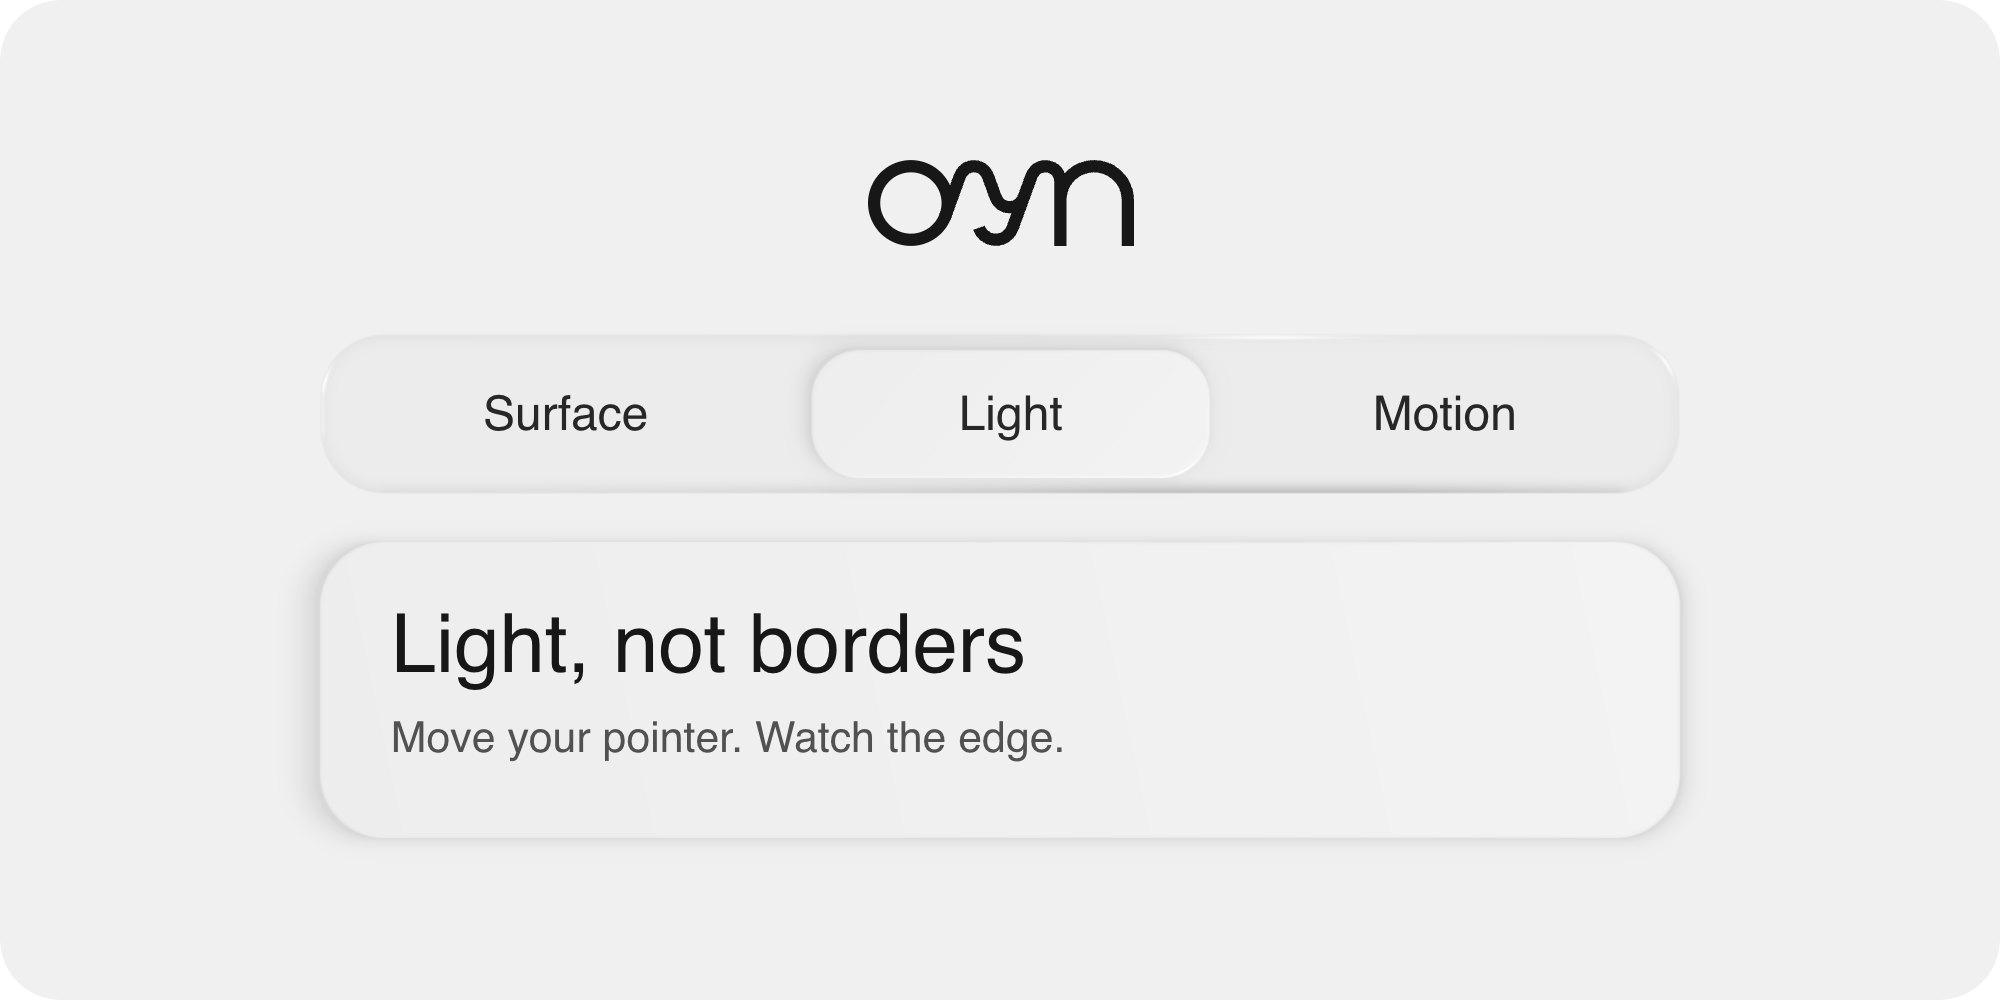
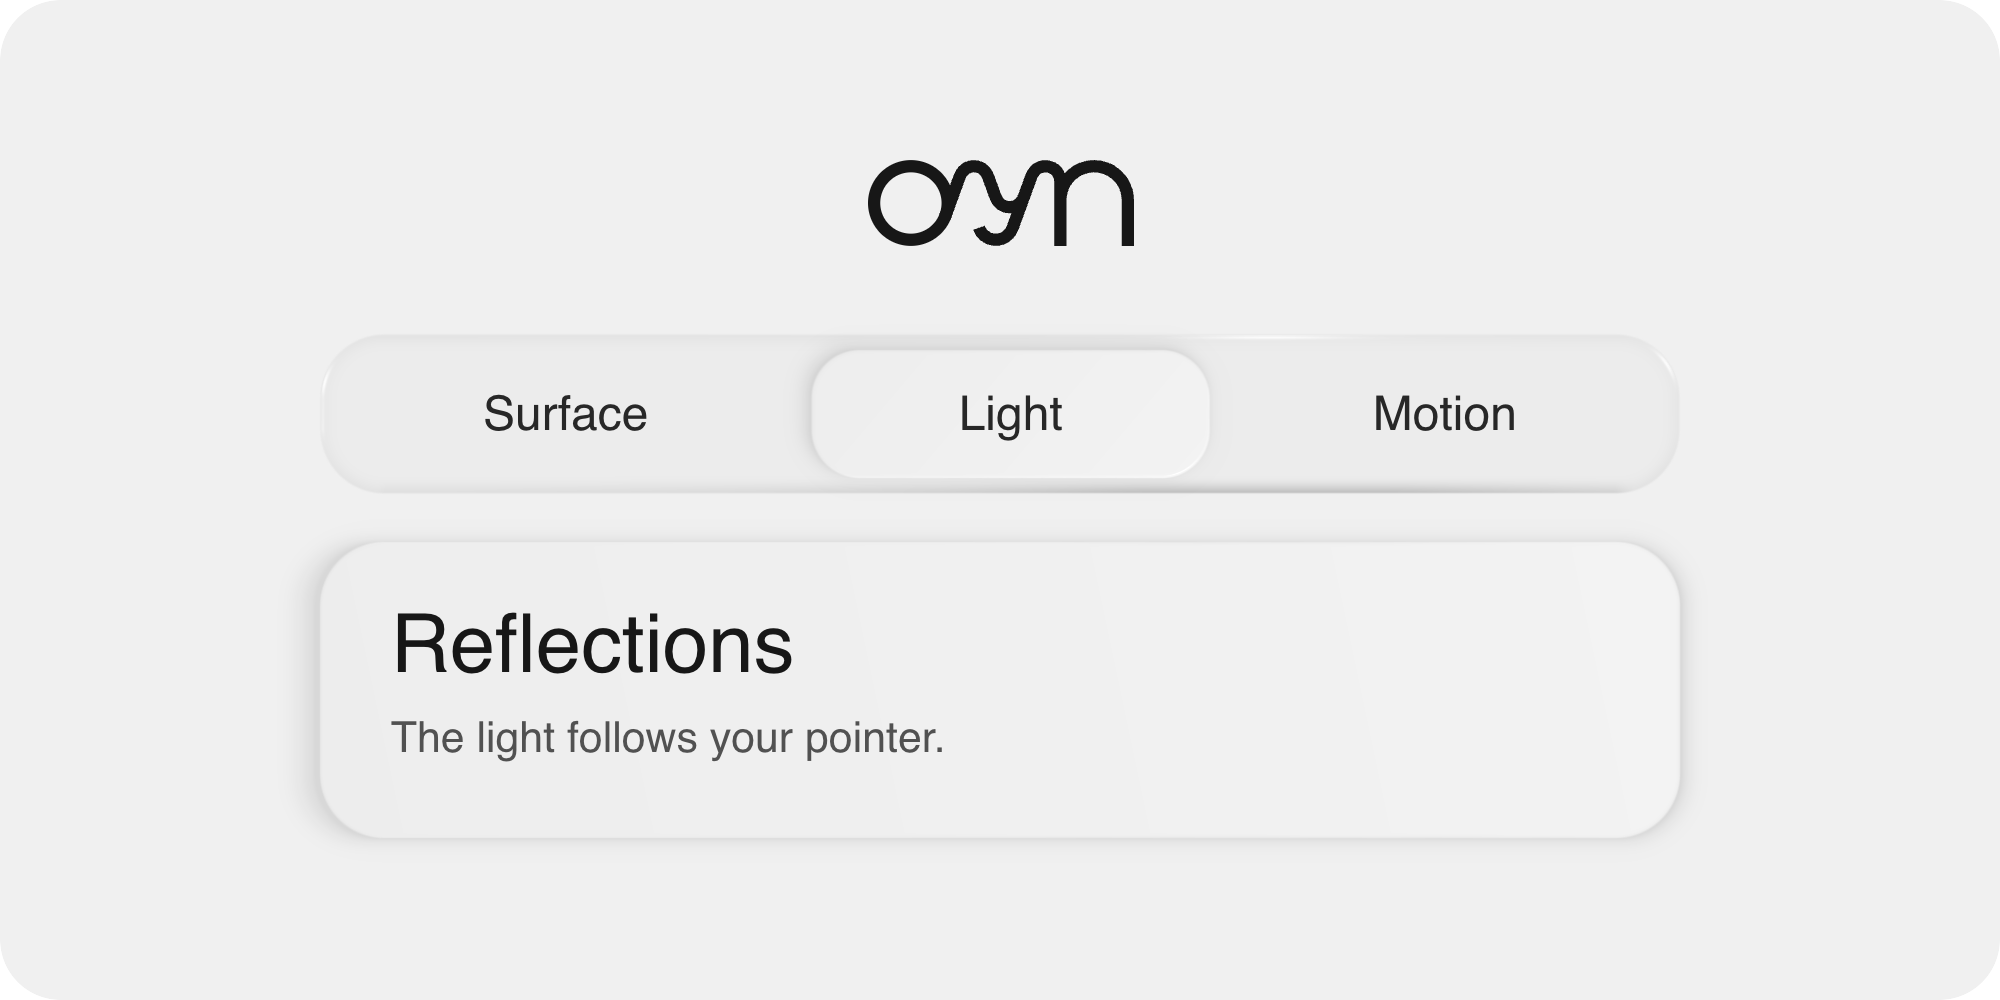
Describe the light interaction in plain language

Changed region(s): [[0.186, 0.589, 0.527, 0.682], [0.186, 0.713, 0.527, 0.775]]

diff --git a/site/index.html b/site/index.html
@@ -23,13 +23,13 @@
     />
     <meta
       property="og:image"
-      content="https://oyn.dev/oyn-preview.png?v=light-tab-dark"
+      content="https://oyn.dev/oyn-preview.png?v=reflections"
     />
     <meta property="og:image:width" content="1280" />
     <meta property="og:image:height" content="640" />
     <meta
       property="og:image:alt"
-      content="The live OYN site in dark mode, with the Light tab selected and the ceramic panel reading “Light, not borders”."
+      content="The Light tab selected on a dark Ceramic surface."
     />
     <meta name="twitter:card" content="summary_large_image" />
     <meta name="twitter:creator" content="@Govizlora" />
@@ -43,7 +43,7 @@
         "codeRepository": "https://github.com/govizlora/oyn",
         "programmingLanguage": "TypeScript",
         "runtimePlatform": "Web browser",
-        "image": "https://oyn.dev/oyn-preview.png?v=light-tab-dark"
+        "image": "https://oyn.dev/oyn-preview.png?v=reflections"
       }
     </script>
     <link rel="icon" href="/oyn.svg" />

diff --git a/site/public/about/index.html b/site/public/about/index.html
@@ -18,7 +18,7 @@
     <meta property="og:url" content="https://oyn.dev/about/" />
     <meta
       property="og:image"
-      content="https://oyn.dev/oyn-preview.png?v=light-tab-dark"
+      content="https://oyn.dev/oyn-preview.png?v=reflections"
     />
     <meta name="twitter:card" content="summary_large_image" />
     <style>

diff --git a/site/FilmTabs.tsx b/site/FilmTabs.tsx
@@ -15,8 +15,8 @@ const sections = [
   },
   {
     tab: "Light",
-    title: "Light, not borders",
-    text: "Move your pointer. Watch the edge.",
+    title: "Reflections",
+    text: "The light follows your pointer.",
   },
   {
     tab: "Motion",
